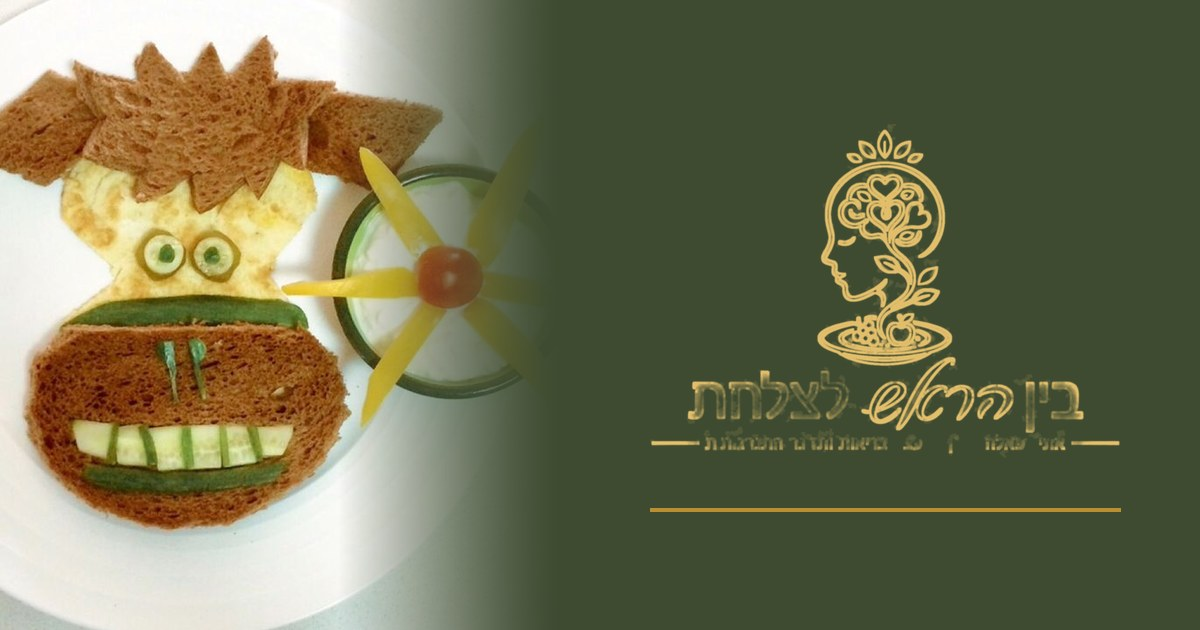
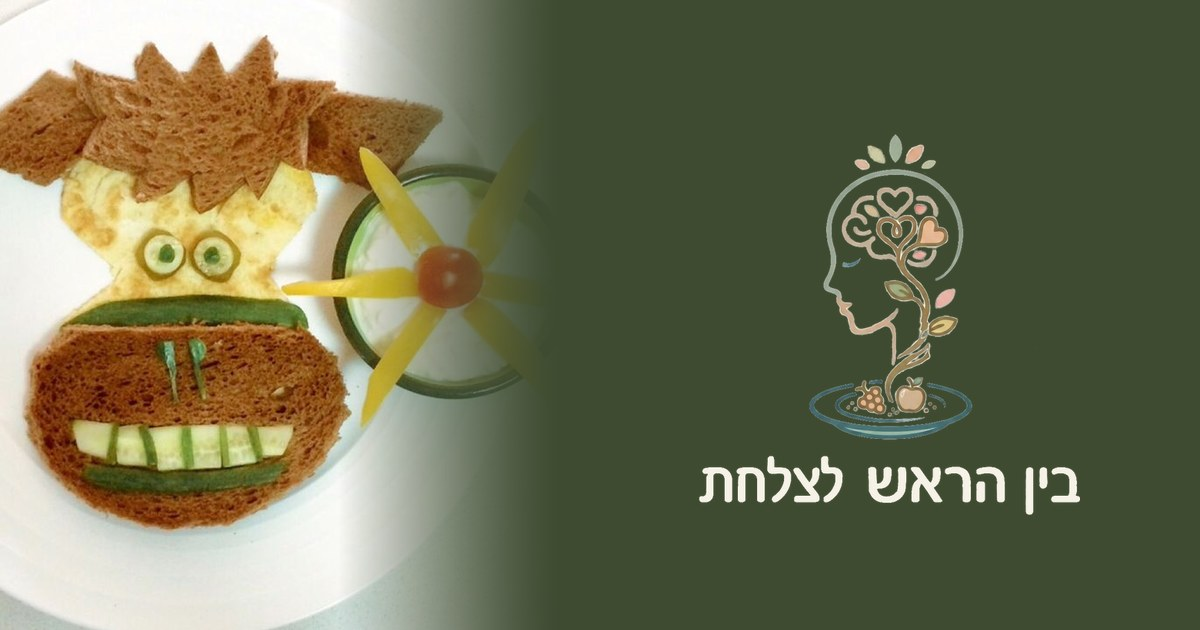
החלפת הלוגו בכותרת לסמל הנקי, בשני עמודי המדריכים (#64)
קובץ הלוגו החדש הוא רינדור עם הילה. כל ניסיון להסיר את הרקע השחור
הותיר מריחה סביב הקווים, ובגודל שבו הלוגו מוצג בפועל הוא לא החזיק.

במקומו: logo-mark.png — הסמל הנקי עם 'בין הראש לצלחת', ללא שורת השם
והתואר. שורת הטקסט נצבעה בקרם כדי שתיקרא על רקע הזית הכהה (ניגודיות 8.3).

מתקן גם את עמוד /lunchbox, שבכותרתו הופיע עד כה השם הישן 'אתי אטל'.

Claude-Session: https://claude.ai/code/session_01YK6JrrT1s6ebMPWz6oaJHF

Changed region(s): [[0.5242, 0.2111, 0.925, 0.8143]]

diff --git a/public/fat-guide.html b/public/fat-guide.html
@@ -62,8 +62,7 @@
   .band-olive{background:var(--olive);color:var(--on-olive);}
 
   header{background:var(--olive);color:var(--paper);padding:56px 20px 52px;}
-  /* wide lockup — size by width so the wordmark stays legible */
-  .brand{display:block;width:min(330px,80%);height:auto;margin:0 0 26px;}
+  .brand{display:block;width:auto;height:168px;margin:0 0 24px;}
   .eyebrow{font-size:13px;letter-spacing:.16em;font-weight:500;color:var(--sage-soft);opacity:.85;margin:0 0 18px;}
   h1{font-family:"Frank Ruhl Libre",serif;font-weight:900;font-size:clamp(32px,6.6vw,50px);line-height:1.14;margin:0 0 18px;}
   header p{margin:0;max-width:56ch;font-weight:300;font-size:clamp(16px,2.4vw,19px);color:#EDEAD9;}
@@ -119,7 +118,7 @@
     td.how::before{content:"איך: ";color:var(--sage);}
     td.why{padding-bottom:14px;font-size:14.5px;color:#6B7460;}
   }
-  @media (max-width:560px){.brand{width:min(270px,88%);margin-bottom:20px;}}
+  @media (max-width:560px){.brand{height:144px;margin-bottom:20px;}}
   @media (prefers-reduced-motion:reduce){*{transition:none!important;}}
 </style>
 </head>
@@ -127,7 +126,7 @@
 
 <header>
   <div class="inner" style="padding:0;">
-    <img class="brand" src="/logo-brand-gold.png" alt="בין הראש לצלחת — אתי רפאלה זיתון" width="1394" height="991">
+    <img class="brand" src="/logo-mark-light.png" alt="בין הראש לצלחת" width="515" height="520">
     <p class="eyebrow">מדריך להורים</p>
     <h1>שומן שנכנס בשקט</h1>
     <p>איך משלבים שומנים איכותיים בתוך האוכל שהילד כבר אוהב — בלי מאבקים, ובלי שהארוחה תהפוך לפרויקט בריאות.</p>

diff --git a/public/lunchbox.html b/public/lunchbox.html
@@ -52,8 +52,8 @@
 
   header{background:var(--olive);color:var(--paper);padding:56px 20px 48px;margin-bottom:44px;}
   header .inner{max-width:820px;margin:0 auto;}
-  .brand{display:block;width:auto;height:132px;margin:0 0 28px;}
-  @media (max-width:560px){.brand{height:108px;margin-bottom:22px;}}
+  .brand{display:block;width:auto;height:168px;margin:0 0 24px;}
+  @media (max-width:560px){.brand{height:144px;margin-bottom:20px;}}
   .eyebrow{font-size:13px;letter-spacing:.16em;font-weight:500;color:var(--sage-soft);opacity:.85;margin:0 0 18px;}
   h1{font-family:"Frank Ruhl Libre",serif;font-weight:900;font-size:clamp(34px,7vw,54px);line-height:1.12;margin:0 0 18px;}
   header p{margin:0;max-width:56ch;font-weight:300;font-size:clamp(16px,2.4vw,19px);color:#EDEAD9;}
@@ -124,7 +124,7 @@
 
 <header>
   <div class="inner">
-    <img class="brand" src="/logo-gold.png" alt="בין הראש לצלחת — אתי רפאלה זיתון, יועצת בריאות במגמת תזונה התנהגותית" width="371" height="377">
+    <img class="brand" src="/logo-mark-light.png" alt="בין הראש לצלחת" width="515" height="520">
     <p class="eyebrow">מדריך להורים</p>
     <h1>במקום כריך</h1>
     <p>ארוחת עשר היא לא ארוחת צהריים. היא לא צריכה להיות כבדה — היא צריכה להחזיק כמה שעות, להיאכל בעשר דקות, ולא לחזור הביתה שלמה.</p>
